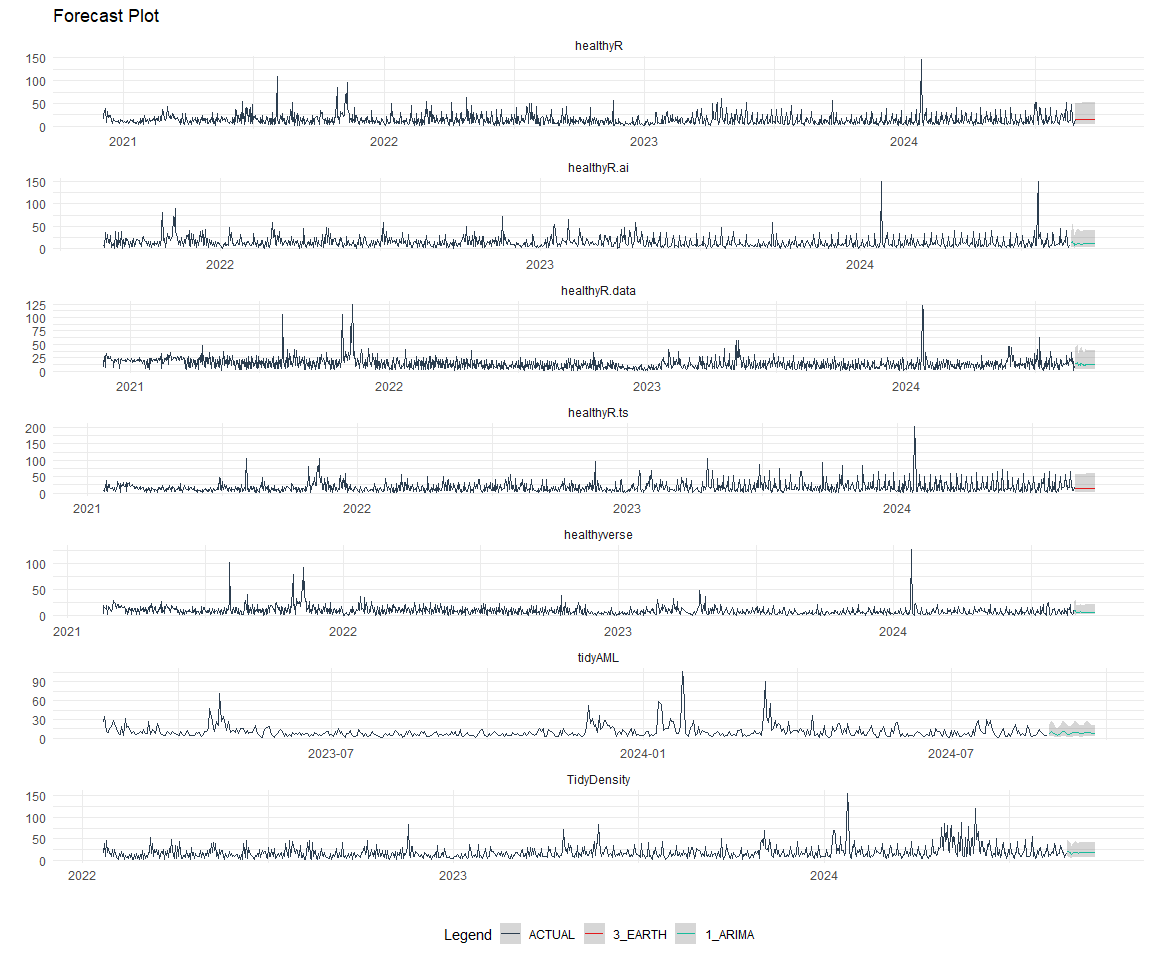
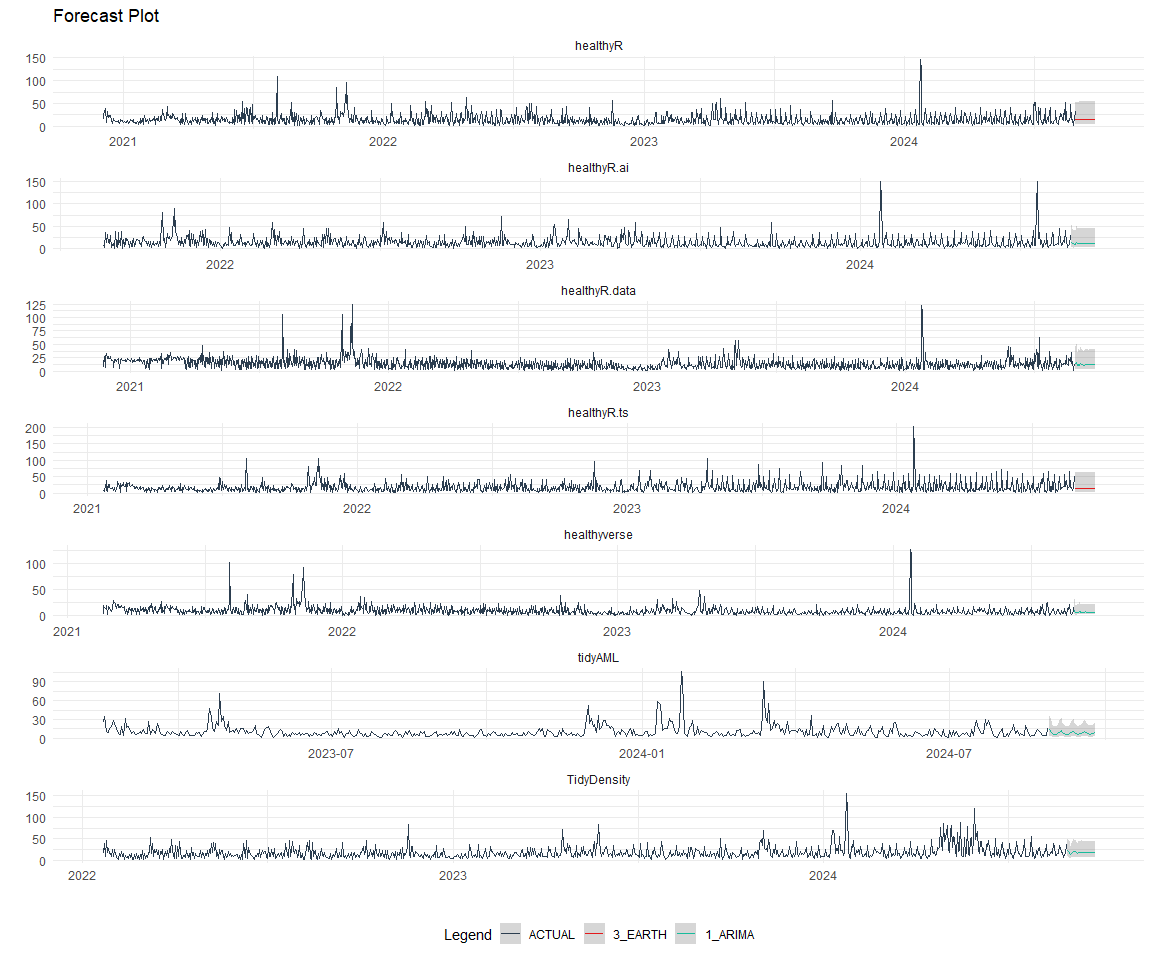
updates

diff --git a/README.md b/README.md
@@ -1,7 +1,7 @@
 Time Series Analysis and Nested Modeling of the Healthyverse Packages
 ================
 Steven P. Sanderson II, MPH - Date:
-29 August, 2024
+30 August, 2024
 
 This analysis follows a *Nested Modeltime Workflow*.
 
@@ -11,7 +11,7 @@ This analysis follows a *Nested Modeltime Workflow*.
 glimpse(downloads_tbl)
 ```
 
-    ## Rows: 112,318
+    ## Rows: 112,512
     ## Columns: 11
     ## $ date      <date> 2020-11-23, 2020-11-23, 2020-11-23, 2020-11-23, 2020-11-23,…
     ## $ time      <Period> 15H 36M 55S, 11H 26M 39S, 23H 34M 44S, 18H 39M 32S, 9H 0M…
@@ -25,8 +25,8 @@ glimpse(downloads_tbl)
     ## $ country   <chr> "US", "US", "US", "GB", "US", "US", "DE", "HK", "JP", "US", …
     ## $ ip_id     <int> 2069, 2804, 78827, 27595, 90474, 90474, 42435, 74, 7655, 638…
 
-The last day in the data set is 2024-08-27 23:43:28, the file was
-birthed on: 2024-08-07 07:35:44, and at report knit time is -492.13
+The last day in the data set is 2024-08-28 23:51:49, the file was
+birthed on: 2024-08-07 07:35:44, and at report knit time is -516.27
 hours old. Happy analyzing!
 
 Now that we have our data lets take a look at it using the `skimr`
@@ -39,7 +39,7 @@ skim(downloads_tbl)
 |                                                  |               |
 |:-------------------------------------------------|:--------------|
 | Name                                             | downloads_tbl |
-| Number of rows                                   | 112318        |
+| Number of rows                                   | 112512        |
 | Number of columns                                | 11            |
 | \_\_\_\_\_\_\_\_\_\_\_\_\_\_\_\_\_\_\_\_\_\_\_   |               |
 | Column type frequency:                           |               |
@@ -57,37 +57,37 @@ Data summary
 
 | skim_variable | n_missing | complete_rate | min | max | empty | n_unique | whitespace |
 |:--------------|----------:|--------------:|----:|----:|------:|---------:|-----------:|
-| r_version     |     78897 |          0.30 |   5 |   5 |     0 |       43 |          0 |
-| r_arch        |     78897 |          0.30 |   3 |   7 |     0 |        5 |          0 |
-| r_os          |     78897 |          0.30 |   7 |  15 |     0 |       19 |          0 |
+| r_version     |     79076 |          0.30 |   5 |   5 |     0 |       43 |          0 |
+| r_arch        |     79076 |          0.30 |   3 |   7 |     0 |        5 |          0 |
+| r_os          |     79076 |          0.30 |   7 |  15 |     0 |       19 |          0 |
 | package       |         0 |          1.00 |   7 |  13 |     0 |        7 |          0 |
 | version       |         0 |          1.00 |   5 |  17 |     0 |       59 |          0 |
-| country       |      9604 |          0.91 |   2 |   2 |     0 |      157 |          0 |
+| country       |      9608 |          0.91 |   2 |   2 |     0 |      157 |          0 |
 
 **Variable type: Date**
 
 | skim_variable | n_missing | complete_rate | min        | max        | median     | n_unique |
 |:--------------|----------:|--------------:|:-----------|:-----------|:-----------|---------:|
-| date          |         0 |             1 | 2020-11-23 | 2024-08-27 | 2023-02-01 |     1374 |
+| date          |         0 |             1 | 2020-11-23 | 2024-08-28 | 2023-02-01 |     1375 |
 
 **Variable type: numeric**
 
-| skim_variable | n_missing | complete_rate |       mean |         sd |  p0 |   p25 |      p50 |       p75 |    p100 | hist  |
-|:--------------|----------:|--------------:|-----------:|-----------:|----:|------:|---------:|----------:|--------:|:------|
-| size          |         0 |             1 | 1180041.69 | 1559690.59 | 355 | 14701 | 279942.5 | 2373526.0 | 5677952 | ▇▁▂▁▁ |
-| ip_id         |         0 |             1 |   10282.82 |   17995.41 |   1 |   317 |   3064.0 |   11455.5 |  143633 | ▇▁▁▁▁ |
+| skim_variable | n_missing | complete_rate |       mean |         sd |  p0 |   p25 |    p50 |     p75 |    p100 | hist  |
+|:--------------|----------:|--------------:|-----------:|-----------:|----:|------:|-------:|--------:|--------:|:------|
+| size          |         0 |             1 | 1178499.56 | 1559160.20 | 355 | 14701 | 274853 | 2373526 | 5677952 | ▇▁▂▁▁ |
+| ip_id         |         0 |             1 |   10280.25 |   17980.54 |   1 |   319 |   3080 |   11442 |  143633 | ▇▁▁▁▁ |
 
 **Variable type: POSIXct**
 
 | skim_variable | n_missing | complete_rate | min                 | max                 | median              | n_unique |
 |:--------------|----------:|--------------:|:--------------------|:--------------------|:--------------------|---------:|
-| date_time     |         0 |             1 | 2020-11-23 09:00:41 | 2024-08-27 23:43:28 | 2023-02-01 03:16:42 |    67943 |
+| date_time     |         0 |             1 | 2020-11-23 09:00:41 | 2024-08-28 23:51:49 | 2023-02-01 18:42:10 |    67988 |
 
 **Variable type: Timespan**
 
 | skim_variable | n_missing | complete_rate | min | max | median | n_unique |
 |:--------------|----------:|--------------:|----:|----:|-------:|---------:|
-| time          |         0 |             1 |   0 |  59 |     35 |       60 |
+| time          |         0 |             1 |   0 |  59 |     24 |       60 |
 
 We can see that the following columns are missing a lot of data and for
 us are most likely not useful anyways, so we will drop them
@@ -119,64 +119,64 @@ weeks or 28 days for each package. First lets get our base data.
     ## 
     ## Residuals:
     ##     Min      1Q  Median      3Q     Max 
-    ## -150.79  -34.39   -9.64   25.81  799.00 
+    ## -151.06  -34.48   -9.60   25.95  799.11 
     ## 
     ## Coefficients:
     ##                                                      Estimate Std. Error
-    ## (Intercept)                                        -1.679e+02  8.786e+01
-    ## date                                                1.007e-02  4.654e-03
-    ## lag(value, 1)                                       1.616e-01  2.645e-02
-    ## lag(value, 7)                                       1.004e-01  2.751e-02
-    ## lag(value, 14)                                      1.156e-01  2.763e-02
-    ## lag(value, 21)                                      3.337e-02  2.773e-02
-    ## lag(value, 28)                                      8.919e-02  2.753e-02
-    ## lag(value, 35)                                      6.600e-02  2.774e-02
-    ## lag(value, 42)                                      3.760e-02  2.790e-02
-    ## lag(value, 49)                                      8.688e-02  2.768e-02
-    ## month(date, label = TRUE).L                        -1.021e+01  5.701e+00
-    ## month(date, label = TRUE).Q                         2.557e+00  5.541e+00
-    ## month(date, label = TRUE).C                        -1.122e+01  5.708e+00
-    ## month(date, label = TRUE)^4                        -8.753e+00  5.668e+00
-    ## month(date, label = TRUE)^5                        -1.591e+01  5.605e+00
-    ## month(date, label = TRUE)^6                        -3.874e+00  5.723e+00
-    ## month(date, label = TRUE)^7                        -1.033e+01  5.543e+00
-    ## month(date, label = TRUE)^8                        -4.621e-01  5.549e+00
-    ## month(date, label = TRUE)^9                         7.164e+00  5.547e+00
-    ## month(date, label = TRUE)^10                        7.619e+00  5.432e+00
-    ## month(date, label = TRUE)^11                       -4.201e+00  5.298e+00
-    ## fourier_vec(date, type = "sin", K = 1, period = 7) -1.134e+01  2.514e+00
-    ## fourier_vec(date, type = "cos", K = 1, period = 7)  5.895e+00  2.602e+00
+    ## (Intercept)                                        -1.706e+02  8.781e+01
+    ## date                                                1.021e-02  4.652e-03
+    ## lag(value, 1)                                       1.611e-01  2.644e-02
+    ## lag(value, 7)                                       1.001e-01  2.751e-02
+    ## lag(value, 14)                                      1.147e-01  2.761e-02
+    ## lag(value, 21)                                      3.328e-02  2.773e-02
+    ## lag(value, 28)                                      8.843e-02  2.752e-02
+    ## lag(value, 35)                                      6.758e-02  2.769e-02
+    ## lag(value, 42)                                      3.919e-02  2.785e-02
+    ## lag(value, 49)                                      8.700e-02  2.768e-02
+    ## month(date, label = TRUE).L                        -1.020e+01  5.700e+00
+    ## month(date, label = TRUE).Q                         2.445e+00  5.540e+00
+    ## month(date, label = TRUE).C                        -1.139e+01  5.705e+00
+    ## month(date, label = TRUE)^4                        -8.773e+00  5.668e+00
+    ## month(date, label = TRUE)^5                        -1.577e+01  5.603e+00
+    ## month(date, label = TRUE)^6                        -3.904e+00  5.723e+00
+    ## month(date, label = TRUE)^7                        -1.048e+01  5.541e+00
+    ## month(date, label = TRUE)^8                        -6.237e-01  5.546e+00
+    ## month(date, label = TRUE)^9                         7.237e+00  5.546e+00
+    ## month(date, label = TRUE)^10                        7.871e+00  5.426e+00
+    ## month(date, label = TRUE)^11                       -4.075e+00  5.296e+00
+    ## fourier_vec(date, type = "sin", K = 1, period = 7) -1.137e+01  2.514e+00
+    ## fourier_vec(date, type = "cos", K = 1, period = 7)  5.941e+00  2.601e+00
     ##                                                    t value Pr(>|t|)    
-    ## (Intercept)                                         -1.911 0.056277 .  
-    ## date                                                 2.163 0.030706 *  
-    ## lag(value, 1)                                        6.111 1.30e-09 ***
-    ## lag(value, 7)                                        3.648 0.000274 ***
-    ## lag(value, 14)                                       4.183 3.07e-05 ***
-    ## lag(value, 21)                                       1.203 0.229044    
-    ## lag(value, 28)                                       3.240 0.001226 ** 
-    ## lag(value, 35)                                       2.379 0.017493 *  
-    ## lag(value, 42)                                       1.348 0.177943    
-    ## lag(value, 49)                                       3.139 0.001734 ** 
-    ## month(date, label = TRUE).L                         -1.791 0.073570 .  
-    ## month(date, label = TRUE).Q                          0.461 0.644526    
-    ## month(date, label = TRUE).C                         -1.966 0.049558 *  
-    ## month(date, label = TRUE)^4                         -1.544 0.122784    
-    ## month(date, label = TRUE)^5                         -2.838 0.004610 ** 
-    ## month(date, label = TRUE)^6                         -0.677 0.498545    
-    ## month(date, label = TRUE)^7                         -1.864 0.062523 .  
-    ## month(date, label = TRUE)^8                         -0.083 0.933648    
-    ## month(date, label = TRUE)^9                          1.292 0.196726    
-    ## month(date, label = TRUE)^10                         1.403 0.160979    
-    ## month(date, label = TRUE)^11                        -0.793 0.427934    
-    ## fourier_vec(date, type = "sin", K = 1, period = 7)  -4.509 7.09e-06 ***
-    ## fourier_vec(date, type = "cos", K = 1, period = 7)   2.266 0.023641 *  
+    ## (Intercept)                                         -1.942 0.052297 .  
+    ## date                                                 2.194 0.028392 *  
+    ## lag(value, 1)                                        6.093 1.46e-09 ***
+    ## lag(value, 7)                                        3.639 0.000284 ***
+    ## lag(value, 14)                                       4.153 3.50e-05 ***
+    ## lag(value, 21)                                       1.200 0.230380    
+    ## lag(value, 28)                                       3.214 0.001342 ** 
+    ## lag(value, 35)                                       2.440 0.014814 *  
+    ## lag(value, 42)                                       1.407 0.159653    
+    ## lag(value, 49)                                       3.143 0.001708 ** 
+    ## month(date, label = TRUE).L                         -1.789 0.073911 .  
+    ## month(date, label = TRUE).Q                          0.441 0.659035    
+    ## month(date, label = TRUE).C                         -1.997 0.046063 *  
+    ## month(date, label = TRUE)^4                         -1.548 0.121918    
+    ## month(date, label = TRUE)^5                         -2.814 0.004965 ** 
+    ## month(date, label = TRUE)^6                         -0.682 0.495260    
+    ## month(date, label = TRUE)^7                         -1.891 0.058790 .  
+    ## month(date, label = TRUE)^8                         -0.112 0.910480    
+    ## month(date, label = TRUE)^9                          1.305 0.192124    
+    ## month(date, label = TRUE)^10                         1.451 0.147134    
+    ## month(date, label = TRUE)^11                        -0.769 0.441745    
+    ## fourier_vec(date, type = "sin", K = 1, period = 7)  -4.523 6.65e-06 ***
+    ## fourier_vec(date, type = "cos", K = 1, period = 7)   2.284 0.022543 *  
     ## ---
     ## Signif. codes:  0 '***' 0.001 '**' 0.01 '*' 0.05 '.' 0.1 ' ' 1
     ## 
-    ## Residual standard error: 57.52 on 1302 degrees of freedom
+    ## Residual standard error: 57.52 on 1303 degrees of freedom
     ##   (49 observations deleted due to missingness)
-    ## Multiple R-squared:  0.2608, Adjusted R-squared:  0.2483 
-    ## F-statistic: 20.88 on 22 and 1302 DF,  p-value: < 2.2e-16
+    ## Multiple R-squared:  0.2618, Adjusted R-squared:  0.2494 
+    ## F-statistic: 21.01 on 22 and 1303 DF,  p-value: < 2.2e-16
 
 ![](man/figures/README-base_data_frame-1.png)<!-- -->
 
@@ -252,14 +252,14 @@ nested_data_tbl
     ## # A tibble: 8 × 4
     ##   package       .actual_data         .future_data      .splits          
     ##   <fct>         <list>               <list>            <list>           
-    ## 1 healthyR.data <tibble [1,345 × 2]> <tibble [28 × 2]> <split [1317|28]>
-    ## 2 healthyR      <tibble [1,337 × 2]> <tibble [28 × 2]> <split [1309|28]>
+    ## 1 healthyR.data <tibble [1,346 × 2]> <tibble [28 × 2]> <split [1318|28]>
+    ## 2 healthyR      <tibble [1,338 × 2]> <tibble [28 × 2]> <split [1310|28]>
     ## 3 <NA>          <tibble [23 × 2]>    <tibble [28 × 2]> <split [0|23]>   
-    ## 4 healthyR.ts   <tibble [1,283 × 2]> <tibble [28 × 2]> <split [1255|28]>
-    ## 5 healthyverse  <tibble [1,254 × 2]> <tibble [28 × 2]> <split [1226|28]>
-    ## 6 healthyR.ai   <tibble [1,080 × 2]> <tibble [28 × 2]> <split [1052|28]>
-    ## 7 TidyDensity   <tibble [934 × 2]>   <tibble [28 × 2]> <split [906|28]> 
-    ## 8 tidyAML       <tibble [550 × 2]>   <tibble [28 × 2]> <split [522|28]>
+    ## 4 healthyR.ts   <tibble [1,284 × 2]> <tibble [28 × 2]> <split [1256|28]>
+    ## 5 healthyverse  <tibble [1,255 × 2]> <tibble [28 × 2]> <split [1227|28]>
+    ## 6 healthyR.ai   <tibble [1,081 × 2]> <tibble [28 × 2]> <split [1053|28]>
+    ## 7 TidyDensity   <tibble [935 × 2]>   <tibble [28 × 2]> <split [907|28]> 
+    ## 8 tidyAML       <tibble [551 × 2]>   <tibble [28 × 2]> <split [523|28]>
 
 Now it is time to make some recipes and models using the modeltime
 workflow.
@@ -357,38 +357,38 @@ nested_modeltime_tbl %>%
 
 | package       | .model_id | .model_desc | .type |       mae |       mape |      mase |     smape |      rmse |       rsq |
 |:--------------|----------:|:------------|:------|----------:|-----------:|----------:|----------:|----------:|----------:|
-| healthyR.data |         1 | ARIMA       | Test  | 0.5889235 |  102.98549 | 0.6929962 | 150.95219 | 0.8122604 | 0.1668398 |
-| healthyR.data |         2 | LM          | Test  | 0.8872433 |  314.63274 | 1.0440343 | 169.30622 | 1.0234672 | 0.0084193 |
-| healthyR.data |         3 | EARTH       | Test  | 0.5797453 |  142.25975 | 0.6821962 | 116.36789 | 0.8400875 | 0.0084193 |
-| healthyR.data |         4 | NNAR        | Test  | 0.6068439 |  105.35924 | 0.7140835 | 137.45367 | 0.8488337 | 0.0008777 |
-| healthyR      |         1 | ARIMA       | Test  | 0.6965002 |   80.84187 | 0.7994799 | 137.66907 | 0.9261233 | 0.0146321 |
-| healthyR      |         2 | LM          | Test  | 0.8165672 |  113.30030 | 0.9372992 | 182.02137 | 1.0149592 | 0.0107902 |
-| healthyR      |         3 | EARTH       | Test  | 0.6691406 |   81.09282 | 0.7680752 | 114.73257 | 0.8971608 | 0.0107902 |
-| healthyR      |         4 | NNAR        | Test  | 0.8060460 |  111.38288 | 0.9252224 | 174.04667 | 1.0118469 | 0.0003474 |
+| healthyR.data |         1 | ARIMA       | Test  | 0.6014088 |   95.24902 | 0.7188406 | 144.00666 | 0.8341737 | 0.0431017 |
+| healthyR.data |         2 | LM          | Test  | 0.8858272 |  321.13250 | 1.0587950 | 169.23919 | 1.0223275 | 0.0129951 |
+| healthyR.data |         3 | EARTH       | Test  | 0.5766912 |  145.46724 | 0.6892966 | 115.07169 | 0.8396336 | 0.0129951 |
+| healthyR.data |         4 | NNAR        | Test  | 0.6049632 |  105.28872 | 0.7230891 | 138.19196 | 0.8370977 | 0.0208423 |
+| healthyR      |         1 | ARIMA       | Test  | 0.7412331 |   83.29674 | 0.8526069 | 144.37080 | 0.9611203 | 0.0459155 |
+| healthyR      |         2 | LM          | Test  | 0.8523019 |  112.74047 | 0.9803644 | 182.14118 | 1.0501374 | 0.0011736 |
+| healthyR      |         3 | EARTH       | Test  | 0.7034967 |   82.25374 | 0.8092005 | 117.17966 | 0.9234741 | 0.0011736 |
+| healthyR      |         4 | NNAR        | Test  | 0.8600781 |  114.33152 | 0.9893090 | 182.18992 | 1.0586754 | 0.0325269 |
 | NA            |         1 | NULL        | NA    |        NA |         NA |        NA |        NA |        NA |        NA |
 | NA            |         2 | NULL        | NA    |        NA |         NA |        NA |        NA |        NA |        NA |
 | NA            |         3 | NULL        | NA    |        NA |         NA |        NA |        NA |        NA |        NA |
 | NA            |         4 | NULL        | NA    |        NA |         NA |        NA |        NA |        NA |        NA |
-| healthyR.ts   |         1 | ARIMA       | Test  | 0.7854418 |  156.09142 | 0.7778504 | 141.51027 | 1.0839674 | 0.0198646 |
-| healthyR.ts   |         2 | LM          | Test  | 0.6927468 |  208.87272 | 0.6860513 | 103.36288 | 0.9780897 | 0.0223210 |
-| healthyR.ts   |         3 | EARTH       | Test  | 0.6901642 |  213.34328 | 0.6834937 | 102.26356 | 0.9762307 | 0.0223210 |
-| healthyR.ts   |         4 | NNAR        | Test  | 0.8681706 |  138.03848 | 0.8597797 | 174.68991 | 1.1468376 | 0.0116422 |
-| healthyverse  |         1 | ARIMA       | Test  | 0.5951814 |  544.37650 | 0.8258613 | 113.83438 | 0.7066952 | 0.1999234 |
-| healthyverse  |         2 | LM          | Test  | 0.6801144 |  747.03571 | 0.9437125 | 112.30398 | 0.7871541 | 0.0127376 |
-| healthyverse  |         3 | EARTH       | Test  | 0.6339186 |  522.96572 | 0.8796122 | 119.86142 | 0.7453803 | 0.0127376 |
-| healthyverse  |         4 | NNAR        | Test  | 0.5940420 |  342.04621 | 0.8242802 | 127.51595 | 0.7321187 | 0.1402311 |
-| healthyR.ai   |         1 | ARIMA       | Test  | 0.7168177 |  104.52634 | 0.7636494 | 157.63611 | 0.9318688 | 0.0591144 |
-| healthyR.ai   |         2 | LM          | Test  | 0.7424175 |  148.25946 | 0.7909217 | 134.44040 | 0.9864242 | 0.0001144 |
-| healthyR.ai   |         3 | EARTH       | Test  | 6.4241637 | 2790.67104 | 6.8438723 | 174.47057 | 7.1317678 | 0.0001144 |
-| healthyR.ai   |         4 | NNAR        | Test  | 0.7507653 |  151.50123 | 0.7998149 | 145.81323 | 0.9531495 | 0.0176181 |
-| TidyDensity   |         1 | ARIMA       | Test  | 0.4810483 |  320.88092 | 0.8118239 |  83.85481 | 0.5965116 | 0.1076694 |
-| TidyDensity   |         2 | LM          | Test  | 0.5293848 |  363.01143 | 0.8933972 |  85.37075 | 0.6435934 | 0.0006540 |
-| TidyDensity   |         3 | EARTH       | Test  | 0.8292140 |  232.05008 | 1.3993933 | 185.78680 | 0.9918900 | 0.0006540 |
-| TidyDensity   |         4 | NNAR        | Test  | 0.5471615 |  105.41258 | 0.9233975 | 122.66443 | 0.7151529 | 0.0870950 |
-| tidyAML       |         1 | ARIMA       | Test  | 0.5904735 |  179.76666 | 0.8241973 | 114.89229 | 0.6699227 | 0.2348355 |
-| tidyAML       |         2 | LM          | Test  | 0.6313453 |  179.26531 | 0.8812472 | 113.92056 | 0.7498805 | 0.0098213 |
-| tidyAML       |         3 | EARTH       | Test  | 5.6590913 | 2802.88914 | 7.8990983 | 161.34486 | 6.2257780 | 0.0098213 |
-| tidyAML       |         4 | NNAR        | Test  | 0.5673603 |  240.91333 | 0.7919354 | 103.25689 | 0.6839154 | 0.1538324 |
+| healthyR.ts   |         1 | ARIMA       | Test  | 1.0069796 |  256.53419 | 1.0190360 | 162.50001 | 1.2933576 | 0.0518767 |
+| healthyR.ts   |         2 | LM          | Test  | 0.7455901 |  210.43564 | 0.7545169 | 104.89220 | 1.0306785 | 0.0443740 |
+| healthyR.ts   |         3 | EARTH       | Test  | 0.7421950 |  214.73148 | 0.7510812 | 103.66332 | 1.0280913 | 0.0443740 |
+| healthyR.ts   |         4 | NNAR        | Test  | 0.9524625 |  113.63107 | 0.9638661 | 189.06874 | 1.2301789 | 0.1607296 |
+| healthyverse  |         1 | ARIMA       | Test  | 0.6158766 |  542.36816 | 0.8374476 | 114.30087 | 0.7243747 | 0.2298099 |
+| healthyverse  |         2 | LM          | Test  | 0.6898790 |  756.44522 | 0.9380735 | 112.31245 | 0.8001380 | 0.0591770 |
+| healthyverse  |         3 | EARTH       | Test  | 0.6417488 |  523.11698 | 0.8726277 | 120.08412 | 0.7551862 | 0.0591770 |
+| healthyverse  |         4 | NNAR        | Test  | 0.6108086 |  344.27886 | 0.8305562 | 126.53799 | 0.7468847 | 0.0745570 |
+| healthyR.ai   |         1 | ARIMA       | Test  | 0.7652603 |  109.02681 | 0.8043294 | 161.77804 | 0.9700160 | 0.0646256 |
+| healthyR.ai   |         2 | LM          | Test  | 0.7856586 |  144.09376 | 0.8257691 | 134.48014 | 1.0283277 | 0.0058792 |
+| healthyR.ai   |         3 | EARTH       | Test  | 5.3402544 | 2208.66516 | 5.6128920 | 168.31246 | 5.9682808 | 0.0058792 |
+| healthyR.ai   |         4 | NNAR        | Test  | 0.8054356 |  138.40623 | 0.8465558 | 150.11066 | 1.0247775 | 0.0052950 |
+| TidyDensity   |         1 | ARIMA       | Test  | 0.5097388 |  334.36481 | 0.8099198 |  86.23543 | 0.6201597 | 0.0841140 |
+| TidyDensity   |         2 | LM          | Test  | 0.5437649 |  376.76235 | 0.8639836 |  86.35216 | 0.6580617 | 0.0167472 |
+| TidyDensity   |         3 | EARTH       | Test  | 0.8006873 |  195.60920 | 1.2722055 | 185.03048 | 0.9783759 | 0.0167472 |
+| TidyDensity   |         4 | NNAR        | Test  | 0.6099762 |  108.45440 | 0.9691861 | 132.84809 | 0.7834692 | 0.0418318 |
+| tidyAML       |         1 | ARIMA       | Test  | 0.5962756 |  167.59056 | 0.7872123 | 119.44731 | 0.6801915 | 0.2732020 |
+| tidyAML       |         2 | LM          | Test  | 0.6522577 |  177.69276 | 0.8611208 | 116.81814 | 0.7661702 | 0.0003730 |
+| tidyAML       |         3 | EARTH       | Test  | 3.7515039 | 1878.18660 | 4.9527938 | 148.22450 | 4.1737926 | 0.0003730 |
+| tidyAML       |         4 | NNAR        | Test  | 0.6122388 |  260.66347 | 0.8082872 | 102.63428 | 0.7340731 | 0.1018082 |
 
 ### Plot Models
 
@@ -423,15 +423,15 @@ best_nested_modeltime_tbl %>%
 
     ## # Nested Modeltime Table
     ##   # A tibble: 7 × 10
-    ##   package       .model_id .model_desc .type   mae  mape  mase smape  rmse    rsq
-    ##   <fct>             <int> <chr>       <chr> <dbl> <dbl> <dbl> <dbl> <dbl>  <dbl>
-    ## 1 healthyR.data         1 ARIMA       Test  0.589 103.  0.693 151.  0.812 0.167 
-    ## 2 healthyR              3 EARTH       Test  0.669  81.1 0.768 115.  0.897 0.0108
-    ## 3 healthyR.ts           3 EARTH       Test  0.690 213.  0.683 102.  0.976 0.0223
-    ## 4 healthyverse          1 ARIMA       Test  0.595 544.  0.826 114.  0.707 0.200 
-    ## 5 healthyR.ai           1 ARIMA       Test  0.717 105.  0.764 158.  0.932 0.0591
-    ## 6 TidyDensity           1 ARIMA       Test  0.481 321.  0.812  83.9 0.597 0.108 
-    ## 7 tidyAML               1 ARIMA       Test  0.590 180.  0.824 115.  0.670 0.235
+    ##   package      .model_id .model_desc .type   mae  mape  mase smape  rmse     rsq
+    ##   <fct>            <int> <chr>       <chr> <dbl> <dbl> <dbl> <dbl> <dbl>   <dbl>
+    ## 1 healthyR.da…         1 ARIMA       Test  0.601  95.2 0.719 144.  0.834 0.0431 
+    ## 2 healthyR             3 EARTH       Test  0.703  82.3 0.809 117.  0.923 0.00117
+    ## 3 healthyR.ts          3 EARTH       Test  0.742 215.  0.751 104.  1.03  0.0444 
+    ## 4 healthyverse         1 ARIMA       Test  0.616 542.  0.837 114.  0.724 0.230  
+    ## 5 healthyR.ai          1 ARIMA       Test  0.765 109.  0.804 162.  0.970 0.0646 
+    ## 6 TidyDensity          1 ARIMA       Test  0.510 334.  0.810  86.2 0.620 0.0841 
+    ## 7 tidyAML              1 ARIMA       Test  0.596 168.  0.787 119.  0.680 0.273
 
 ``` r
 best_nested_modeltime_tbl %>%
@@ -468,13 +468,13 @@ nested_modeltime_refit_tbl
     ##   # A tibble: 7 × 5
     ##   package       .actual_data .future_data .splits           .modeltime_tables 
     ##   <fct>         <list>       <list>       <list>            <list>            
-    ## 1 healthyR.data <tibble>     <tibble>     <split [1317|28]> <mdl_tm_t [1 × 5]>
-    ## 2 healthyR      <tibble>     <tibble>     <split [1309|28]> <mdl_tm_t [1 × 5]>
-    ## 3 healthyR.ts   <tibble>     <tibble>     <split [1255|28]> <mdl_tm_t [1 × 5]>
-    ## 4 healthyverse  <tibble>     <tibble>     <split [1226|28]> <mdl_tm_t [1 × 5]>
-    ## 5 healthyR.ai   <tibble>     <tibble>     <split [1052|28]> <mdl_tm_t [1 × 5]>
-    ## 6 TidyDensity   <tibble>     <tibble>     <split [906|28]>  <mdl_tm_t [1 × 5]>
-    ## 7 tidyAML       <tibble>     <tibble>     <split [522|28]>  <mdl_tm_t [1 × 5]>
+    ## 1 healthyR.data <tibble>     <tibble>     <split [1318|28]> <mdl_tm_t [1 × 5]>
+    ## 2 healthyR      <tibble>     <tibble>     <split [1310|28]> <mdl_tm_t [1 × 5]>
+    ## 3 healthyR.ts   <tibble>     <tibble>     <split [1256|28]> <mdl_tm_t [1 × 5]>
+    ## 4 healthyverse  <tibble>     <tibble>     <split [1227|28]> <mdl_tm_t [1 × 5]>
+    ## 5 healthyR.ai   <tibble>     <tibble>     <split [1053|28]> <mdl_tm_t [1 × 5]>
+    ## 6 TidyDensity   <tibble>     <tibble>     <split [907|28]>  <mdl_tm_t [1 × 5]>
+    ## 7 tidyAML       <tibble>     <tibble>     <split [523|28]>  <mdl_tm_t [1 × 5]>
 
 ``` r
 nested_modeltime_refit_tbl %>%
